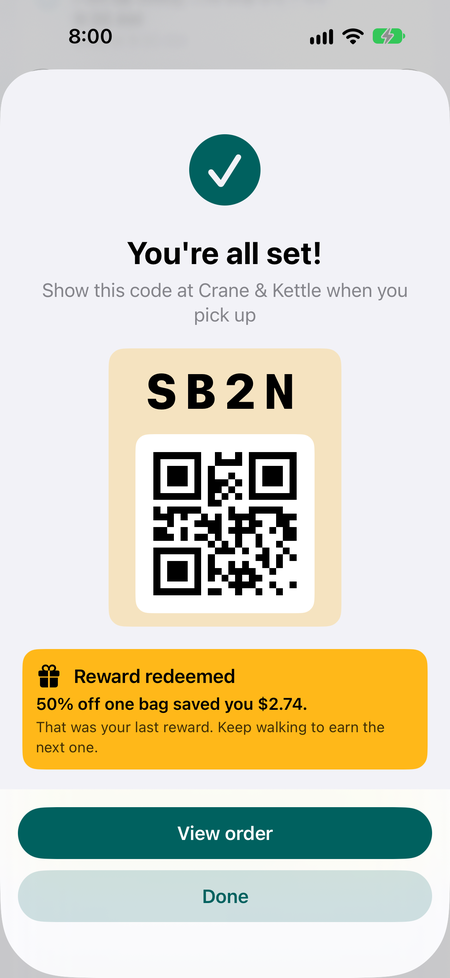
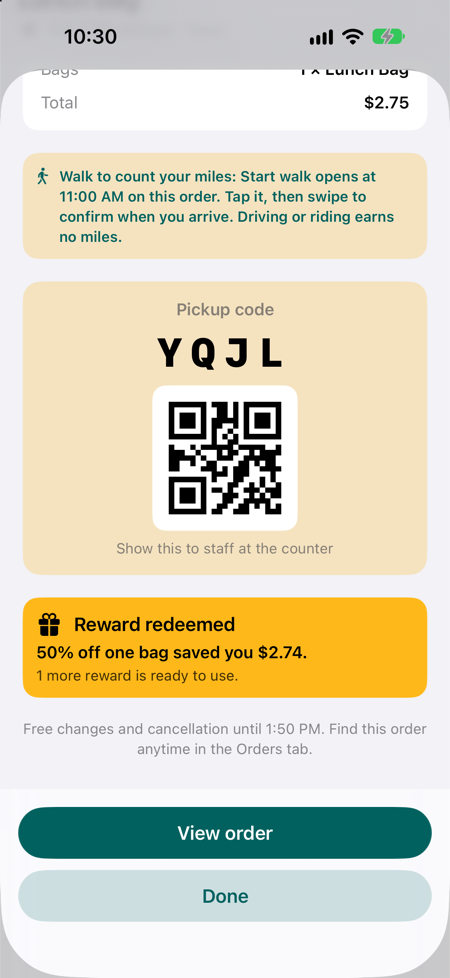
Docs for Developer mode, new screenshots and GIFs

diff --git a/ARCHITECTURE.md b/ARCHITECTURE.md
@@ -41,7 +41,7 @@ Domain      ──►  Foundation only
 
 | Module | Holds | Default isolation |
 |---|---|---|
-| **App** | Composition root (`AppDependencies`), `AppRoot`, splash, rollover triggers, DEBUG tools | MainActor |
+| **App** | Composition root (`AppDependencies`), `AppRoot`, splash, rollover triggers, `DemoController` (Developer mode), DEBUG launch arguments | MainActor |
 | **Domain** | Plain `Sendable` models, pure business rules (including walk verification and the reward ladder), repository **protocols** | nonisolated |
 | **Platform** | `Clock`, `NYCalendar`, location, walk tracking, notifications, pickup codes, QR codes | nonisolated |
 | **MockData** | SwiftData entities, seed JSON + loader, `MarketplaceStore`, `UserDataStore`, repository implementations | nonisolated |
@@ -149,7 +149,7 @@ The store always holds offers for **today and tomorrow** (New York). `rolloverIf
 4. Prunes offers from earlier days whose window has ended. Reservations are never touched.
 5. Saves `lastGeneratedDayKey` and emits `.rolledOver`; the app then reschedules favorite alerts.
 
-Triggers: app launch, scene becoming active, `significantTimeChangeNotification`, and DEBUG time travel.
+Triggers: app launch, scene becoming active, `significantTimeChangeNotification`, and Developer mode's time travel.
 Running it repeatedly is a no-op.
 
 ### Reset
@@ -161,19 +161,22 @@ notifications and pops every tab to its root.
 
 ## 5. Platform services
 
-- **Clock**: `protocol Clock: Sendable { var now: Date { get } }` plus a change stream. `LiveClock` in
-  production; `AdjustableClock` (DEBUG) applies an offset for time travel.
+- **Clock**: `protocol Clock: Sendable { var now: Date { get } }` plus a change stream. The app runs on an
+  `AdjustableClock` in every build: live time, unless Developer mode's time travel (or a UI test) moves it.
 - **LocationProvider**: returns `ResolvedLocation(latitude, longitude, source: .device | .fallback(reason))`
   using `CLLocationUpdate.liveUpdates` / `CLServiceSession`. Falls back to the LIC center
   (`40.7455, -73.9490`) when permission is denied/restricted, there's no fix within 5 s, the simulator has
   no location, or the device is more than 1.5 mi from the service area. Distances to restaurants are
   computed from the resolved location.
 - **NotificationScheduler**: local "bags are open" alerts for favorited restaurants, identifiers
-  `drop-<offerID>`, plus a preview alert.
+  `drop-<offerID>`. Developer mode can also send one of those alerts at once (`sendPreview(_:after:)`) or an
+  order's "your bag is ready" reminder (`sendReminder(_:after:)`). Scheduling errors are logged, not hidden.
 - **WalkTracking**: records GPS fixes per reservation (`LiveWalkTracker`, fed by `CoreLocationWalkSource`
   using `CLLocationUpdate.liveUpdates(.fitness)` and a `CLBackgroundActivitySession`). Needs the `location`
   background mode so a walk keeps recording with the screen locked. Verification itself is the Domain rule
-  `WalkVerifier`.
+  `WalkVerifier`. `SwitchingWalkTracker` sends each walk to GPS or to Developer mode's `DemoWalkTracker`,
+  decided when the walk begins.
+- **DeveloperSettings**: Developer mode's switches, saved in `UserDefaults` (see section 10).
 - **PickupCodeGenerator**: 4 chars from `ABCDEFGHJKLMNPQRSTUVWXYZ23456789`.
 - **QRCodeGenerator**: CoreImage QR of the pickup code.
 
@@ -188,7 +191,7 @@ A compile-time `FeatureFlags` value is created in `AppDependencies` and injected
 |---|---|---|
 | `mapBrowse` | on | Discover map mode toggle |
 | `favorites` | on | Favorites tab, heart buttons |
-| `notifications` | on | Alert toggles, preview alert (requires `favorites`) |
+| `notifications` | on | Alert toggles and the Demo menu's alerts (requires `favorites`) |
 | `dietaryFilters` | on | Dietary section in Profile, dietary filtering |
 | `manageOrder` | on | Change quantity / cancel |
 | `reviews` | on | Rate order, ratings display |
@@ -205,24 +208,23 @@ Everything runs from the shared **Walk_And_Take** scheme (⌘U in Xcode): the fi
 
 ```sh
 xcodebuild test -project Walk_And_Take.xcodeproj -scheme Walk_And_Take \
-  -destination 'platform=iOS Simulator,name=iPhone 17 Pro,OS=26.5'
+  -destination 'platform=iOS Simulator,name=iPhone 18 Pro'
 ```
 
 Package tests alone (faster): `cd Packages/WalkAndTakeKit && xcodebuild test -scheme WalkAndTakeKit-Package
 -destination '…'`. Rule tests use a fixed New York calendar with Thu Sep 24, 2026 as "today".
 
-**DEBUG tools** (Profile → Developer):
+Demo tools live in **Developer mode** (section 10), in every build.
 
-- **Time travel** jumps the app clock (`AdjustableClock`) to 7:45 AM, 12:30 PM, 8:15 PM, 11:50 PM, or the next
-  day, and back to live. Moving the clock triggers rollover, so crossing 8 PM or midnight behaves as in real time.
-- **Seed map** shows every seed restaurant with the 1.5 mi service area; any outside it are listed in red.
+**DEBUG launch arguments** (used by the UI tests): `-UITestInMemoryStore` (fresh data, Developer mode off),
+`-UITestNow <ISO 8601>` (freezes the clock), `-UITestFixedLocation` (LIC center, no permission prompt),
+`-UITestSkipSplash`. Walking demos: `-UITestSeedReward` (one 1.2 mi walk, one banked reward),
+`-UITestSeedMiles <n>` (one walk of n miles), `-UITestSeedHistory` (three walks at real restaurants),
+`-UITestSimulateWalk` (every walk is simulated). The seed arguments combine.
 
-**DEBUG launch arguments** (used by the UI tests): `-UITestInMemoryStore`, `-UITestNow <ISO 8601>` (freezes
-the clock), `-UITestFixedLocation` (LIC center, no permission prompt), `-UITestSkipSplash`.
-
-Walking demos (DEBUG): `-UITestSeedReward` (one 1.2 mi walk, one banked reward), `-UITestSeedMiles <n>` (one walk
-of n miles), `-UITestSeedHistory` (three walks at real restaurants), `-UITestSimulateWalk` (a scripted 0.5 mi
-walk of about 24 s instead of GPS). The seed arguments combine.
+**Simulator notes.** Reinstall with `simctl uninstall` then `install`: installing over the app many times can
+leave iOS dropping its notifications ("local client does not exist" in the log). Screenshots taken through
+`simctl` can lag one action behind taps; trust the UI tests for sequences.
 
 ---
 
@@ -268,9 +270,37 @@ pickup is confirmed first, then the recorded track is verified and miles are cre
 
 - Verification uses GPS signals only. There is no pedometer or motion-activity check, and no Apple Health.
 - Recorded fixes live in memory. If the app is killed mid-walk, recording resumes but earlier fixes are lost.
-- The live "counting so far" figure drops fast segments but doesn't judge the whole walk; the final check at
-  pickup can still reject it.
+- Live progress drops fast segments but doesn't judge the whole walk; the final check at pickup can still
+  reject it.
 - Everything is on device with no server, so a changed device clock or a determined spoofer isn't stopped.
-- The real `CoreLocation` tracker has been exercised only through the simulator's scripted stand-in
-  (`-UITestSimulateWalk`), not on a device.
+- The real `CoreLocation` tracker has been exercised only in the simulator, through Developer mode's
+  simulated walks, not on a device.
+
+---
+
+## 10. Developer mode
+
+A switch at the bottom of Profile, **in every build**, so the whole flow can be demoed without walking
+anywhere. It's off by default and turning it off resets every setting under it and returns the clock to
+live time. Free self-granted rewards are accepted: this is a demo app with no backend.
+
+**Settings** (`Platform/Developer/DeveloperSettings`, saved in `UserDefaults`, kept by Reset demo data):
+Show demo controls, Fixed location, Simulated walks, Auto-walk duration. The Developer section also holds
+Time travel, Seed map, Clear walks & rewards and Reset demo data.
+
+**Demo button.** The only demo UI on a screen is a floating `DemoMenuButton` (DesignSystem) that opens a
+compact menu, so screens otherwise look exactly as customers see them. Each screen's actions live in a
+`+Demo` extension of its model (`PickupModel+Demo`, `ProfileModel` demo actions, `DiscoverModel+Demo`,
+`OfferDetailModel+Demo`, `FavoritesModel+Demo`, `OrdersModel+Demo`).
+
+**Boundary.** Features talk to one protocol, `DemoControlling` (CustomerFeatures/Developer), for time travel,
+driving a simulated walk and adding miles or rewards. Only `App/Demo/DemoController` implements it, with the
+concrete `AdjustableClock`, `DemoWalkTracker` and `UserDataStore`, so customer-facing repositories have no demo
+methods and features still never import MockData.
+
+**Simulated walks.** `DemoWalkTracker` (Platform) walks a straight route from the resolved location to the
+door, with fixes paced at 3 mph so `WalkVerifier` credits it like a real walk (confirming before arriving is
+rejected, just as with GPS). It walks itself over the Auto-walk duration, or is stepped (+0.1 mi), paused,
+or sent to the door. Demo miles from Profile are finished walks to a made-up `demo-…` store, so they follow the
+milestone rules, skip the one-pickup-per-store-per-day limit, and show in Walk history as "Demo walk".
 

diff --git a/README.md b/README.md
@@ -11,7 +11,7 @@ Miles you walk to pickups add up to 50%-off rewards. Zero third-party dependenci
 ![Swift 6](https://img.shields.io/badge/Swift-6-F05138?logo=swift&logoColor=white)
 ![SwiftUI](https://img.shields.io/badge/UI-SwiftUI-0A84FF)
 ![SwiftData](https://img.shields.io/badge/Persistence-SwiftData-5E5CE6)
-![Tests](https://img.shields.io/badge/tests-369%20passing-2EA44F)
+![Tests](https://img.shields.io/badge/tests-412%20passing-2EA44F)
 ![Dependencies](https://img.shields.io/badge/dependencies-0-lightgrey)
 
 <img src="docs/screenshots/splash.gif" width="240" alt="Launch splash: a walker comes to a café doorway, takes the rescue bag from the threshold and leaves with it">&nbsp;
@@ -19,13 +19,13 @@ Miles you walk to pickups add up to 50%-off rewards. Zero third-party dependenci
 <img src="docs/screenshots/walk-and-earn.gif" width="240" alt="Walking to a pickup: Start walk, live progress to the door, swipe to confirm, miles earned and a reward unlocked">
 
 <img src="docs/screenshots/discover.png" width="190" alt="Discover list">&nbsp;
-<img src="docs/screenshots/map.png" width="190" alt="Map with price pins">&nbsp;
-<img src="docs/screenshots/offer-detail.png" width="190" alt="Offer detail">&nbsp;
+<img src="docs/screenshots/map.png" width="190" alt="Map with price pins and a bag card showing the walk reward">&nbsp;
+<img src="docs/screenshots/offer-detail.png" width="190" alt="Offer detail with the walk card and the reward price">&nbsp;
 <img src="docs/screenshots/confirmation.png" width="190" alt="Confirmation with QR code and the Reward redeemed banner">
 
-<img src="docs/screenshots/walk-progress.png" width="190" alt="Walk in progress with live miles walked and miles to go">&nbsp;
+<img src="docs/screenshots/walk-progress.png" width="190" alt="Walk in progress with a ticking progress bar, miles walked and miles to go">&nbsp;
 <img src="docs/screenshots/walk-earned.png" width="190" alt="Miles earned card with a catchphrase and a reward unlocked">&nbsp;
-<img src="docs/screenshots/profile-rewards.png" width="190" alt="Rewards list: one ready to use, one used">&nbsp;
+<img src="docs/screenshots/profile-rewards.png" width="190" alt="Rewards list with two rewards ready to use">&nbsp;
 <img src="docs/screenshots/walk-history.png" width="190" alt="Walk history with miles per pickup">
 
 </div>
@@ -36,7 +36,10 @@ Miles you walk to pickups add up to 50%-off rewards. Zero third-party dependenci
   20 simultaneous reserve attempts on a bag with 4 left produce exactly 4 orders, never more.
 - **Time zones handled correctly.** Business time always runs on New York time through an injected clock.
   Offers roll over daily, tomorrow's bags appear at 8 PM, and everything stays correct across midnight and
-  daylight-saving changes. A built-in time-travel tool makes it easy to demo.
+  daylight-saving changes.
+- **Developer mode for demos.** A switch at the bottom of Profile, in every build, turns on a floating Demo menu:
+  simulated walks you can step, pause or finish, time jumps to any pickup window, instant alerts and pickup
+  reminders, and one-tap miles and rewards. Every screen otherwise looks exactly as customers see it.
 - **Walk to earn.** Reserve a bag, tap Start walk, and walk to the pickup. GPS fixes are checked (speed, accuracy,
   simulated locations, where the walk ends) and up to 2 verified miles per pickup count toward rewards, which unlock at 1, 5 and 15 mi,
   then every 10 mi after that (25, 35, ...). Each reward is 50% off one bag. See the walking section of
@@ -45,8 +48,8 @@ Miles you walk to pickups add up to 50%-off rewards. Zero third-party dependenci
   Domain protocols, and the whole app is assembled in one place.
 - **Swift 6 strict concurrency with zero warnings.** Actors, `Sendable` value types, and no
   `@unchecked Sendable`.
-- **369 automated tests.** 367 Swift Testing tests cover business rules, persistence, rollover, walk verification
-  and every view model, plus 2 XCUITests for the reserve and reward flows. Every feature flag has its own test.
+- **412 automated tests.** 410 Swift Testing tests cover business rules, persistence, rollover, walk verification,
+  Developer mode and every view model, plus 2 XCUITests for the reserve and reward flows. Every feature flag has its own test.
 - **Polished details.** Dynamic Type, VoiceOver, dark mode, QR pickup codes, local notifications, MapKit
   browsing, and a location fallback when permission is denied.
 
@@ -77,34 +80,58 @@ flags.
 | Platform | CoreLocation (`CLLocationUpdate`, `CLServiceSession`, `CLBackgroundActivitySession`), UserNotifications |
 | Quality | Swift Testing, XCUITest, `swift-format` |
 
-About 11.7k lines of app code and 5.5k lines of tests.
+About 13.1k lines of app code and 6.1k lines of tests.
 
 ## Run it
 
 1. Open `Walk_And_Take.xcodeproj` in Xcode 27.
-2. Pick the **Walk_And_Take** scheme and an iOS 26 simulator.
+2. Pick the **Walk_And_Take** scheme and an iOS 26 or later simulator (we test on iPhone 18 Pro, iOS 27).
 3. Press ⌘R to run and ⌘U to test.
 
 <details>
-<summary><b>Debug tools & demo mode</b></summary>
+<summary><b>Developer mode & demo tools</b></summary>
 
-In debug builds, **Profile → Developer** has:
+**Profile → Developer → Developer mode** works in every build (Debug and Release). Turning it on shows:
 
-- **Time travel**: jump to breakfast, lunch, 8:15 PM (tomorrow's bags open), 11:50 PM, or the next day, and
-  back to live time.
-- **Seed map**: all 21 seed restaurants with the 1.5 mi service area.
+| Setting | What it does |
+|---|---|
+| Show demo controls | The floating **Demo** button on Discover, Offer Detail, Orders, an order, Favorites and Profile (on by default) |
+| Fixed location | Pretend to be at the center of Long Island City, with no permission prompt |
+| Simulated walks | Start walk follows a straight route from you to the store instead of GPS (on by default) |
+| Auto-walk takes | How long a simulated walk takes to reach the door on its own: 10, 20 or 60 s |
+| Time travel | Jump to breakfast, lunch, 8:15 PM (tomorrow's bags open), 11:50 PM or the next day, and back |
+| Seed map | All 21 seed restaurants with the 1.5 mi service area |
+| Clear walks & rewards | Back to zero miles and no rewards; orders stay |
+| Reset demo data | Start the whole app over with fresh bags |
 
-Launch arguments (the UI tests use these): `-UITestInMemoryStore`, `-UITestNow 2026-09-24T08:00:00-04:00`,
-`-UITestFixedLocation`, `-UITestSkipSplash`.
+Turning Developer mode off puts every setting back to normal and the clock back to live time.
 
-Walking rewards demo arguments (debug builds only):
+**The Demo button** lists only what makes sense on that screen:
+
+| Screen | Actions |
+|---|---|
+| Discover | Jump to breakfast, lunch, tomorrow's bags or midnight; back to live time |
+| Offer Detail | Jump to this bag's pickup time, or 5 min before it ends |
+| Orders | A "your bag is ready" reminder for any active order, in 1 s |
+| An order | Start walk now, +0.1 mi, pause or auto-walk, arrive now, send pickup reminder, confirm pickup now, open pickup now, jump to 5 min before it ends |
+| Favorites | A store's "bags ready" alert in 1 s (or a sample alert with no favorites) |
+| Profile | +0.5 mi, +1 mi, complete the next milestone, grant a reward |
+
+A simple demo: reserve a bag, open the order, **Demo → Start walk now**, watch the bar fill (or **Arrive now**),
+**Demo → Open pickup now**, swipe to confirm, then **Demo → Complete milestone** on Profile for the reward banner.
+
+**Launch arguments** (debug builds only; the UI tests use the first four):
 
 | Argument | Effect |
 |---|---|
+| `-UITestInMemoryStore` | Fresh in-memory data on every launch, with Developer mode off |
+| `-UITestNow 2026-09-24T08:00:00-04:00` | Freezes the clock at that time |
+| `-UITestFixedLocation` | Uses the LIC center as the device location |
+| `-UITestSkipSplash` | Starts on the tabs |
 | `-UITestSeedReward` | Start with one finished 1.2 mi walk and one banked 50% reward |
 | `-UITestSeedMiles 4.7` | Start with one finished walk of that many miles (banks the milestones it reaches) |
 | `-UITestSeedHistory` | Start with three finished walks at real restaurants (0.4, 0.9, 0.6 mi) |
-| `-UITestSimulateWalk` | Walks use a scripted 0.5 mi stroll (about 24 s) instead of GPS, so Start walk can be demoed in the simulator |
+| `-UITestSimulateWalk` | Every walk is simulated, even with Developer mode off |
 
 The seed arguments can be combined, for example `-UITestSeedHistory -UITestSeedMiles 3.5` gives two banked rewards.
 
@@ -112,7 +139,7 @@ Run the tests from the terminal:
 
 ```sh
 xcodebuild test -project Walk_And_Take.xcodeproj -scheme Walk_And_Take \
-  -destination 'platform=iOS Simulator,name=iPhone 17 Pro,OS=26.5'
+  -destination 'platform=iOS Simulator,name=iPhone 18 Pro'
 ```
 
 </details>
